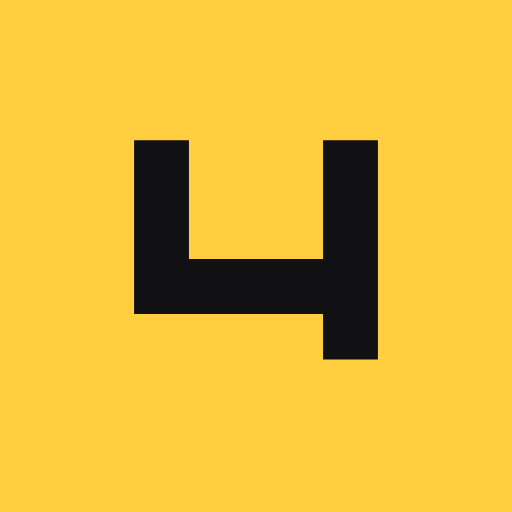
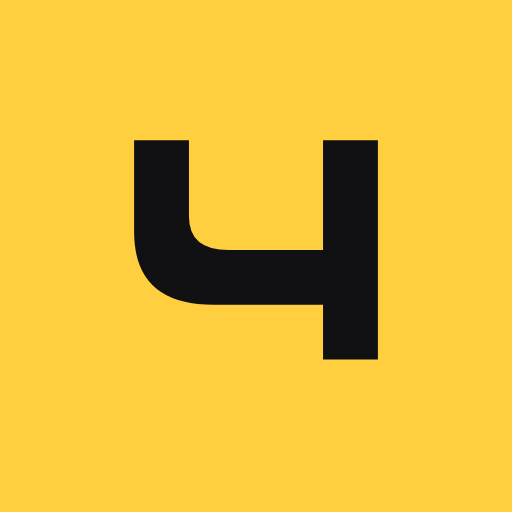
Ч: rounded bowl so it reads as Ч and not as 4 (#188)
The left arm now bends into the crossbar with a rounded outer corner (same family as the bowl of Б),
instead of a square corner. Applied to the mark, launch screen, icons and docs/BRAND.md.

Claude-Session: https://claude.ai/code/session_01Tt2ADcfsnEDgjtUcpVaaSx

Changed region(s): [[0.25, 0.4688, 0.6562, 0.625], [0.3438, 0.4375, 0.625, 0.5312]]

diff --git a/web/src/shared/components/AppLogo.vue b/web/src/shared/components/AppLogo.vue
@@ -3,7 +3,7 @@
     <rect class="lg-fill" :style="scrub?.fill" x="0" y="0" width="84" height="84" rx="22" />
     <rect class="lg-frame" :style="scrub?.frame" x="1.25" y="1.25" width="81.5" height="81.5" rx="21" fill="none" stroke-width="2.5" pathLength="100" />
     <!-- Mark and word share one cap height (36) and the same top and bottom lines, as in the T-Bank logo. -->
-    <path class="lg-ch" :style="scrub?.ch" transform="translate(22 23)" d="M0 0H9V19.5H31V0H40V36H31V28.5H0Z" />
+    <path class="lg-ch" :style="scrub?.ch" transform="translate(22 23)" d="M0 0H9V12.5Q9 18 15.5 18H31V0H40V36H31V27H13Q0 27 0 15Z" />
     <!-- The square holds the first letter of the name, so the word only spells БАНК. Drawn with paths, not a font. -->
     <g v-if="lockup" class="lg-word" transform="translate(105 23)" fill="currentColor">
       <path fill-rule="evenodd" d="M0 0H40V9H9V13.5H24Q40 13.5 40 24.75Q40 36 24 36H0Z M9 22.5V27H24Q31 27 31 24.75Q31 22.5 24 22.5Z" /><path fill-rule="evenodd" transform="translate(41.5 0)" d="M0 36L17.5 0H28.5L46 36H35L32.6 31H13.4L11 36Z M17.3 23H28.7L23 11.3Z" /><path transform="translate(90.7 0)" d="M0 0H9V14.5H31V0H40V36H31V23.5H9V36H0Z" /><path transform="translate(137.1 0)" d="M0 0H9V15.2L30.5 0H42.5L21.2 17.6L43 36H30.8L14.6 22.6L9 27.3V36H0Z" />

diff --git a/web/index.html b/web/index.html
@@ -88,7 +88,7 @@
           <svg class="boot-lockup" viewBox="0 0 285 84" role="img" aria-label="Ч-Банк" focusable="false" xmlns="http://www.w3.org/2000/svg">
             <rect class="l-fill" x="0" y="0" width="84" height="84" rx="22" />
             <rect class="l-frame" x="1.25" y="1.25" width="81.5" height="81.5" rx="21" fill="none" stroke-width="2.5" pathLength="100" />
-            <path class="l-ch" transform="translate(22 23)" d="M0 0H9V19.5H31V0H40V36H31V28.5H0Z" />
+            <path class="l-ch" transform="translate(22 23)" d="M0 0H9V12.5Q9 18 15.5 18H31V0H40V36H31V27H13Q0 27 0 15Z" />
             <g class="l-word" transform="translate(105 23)" fill="currentColor"><path fill-rule="evenodd" d="M0 0H40V9H9V13.5H24Q40 13.5 40 24.75Q40 36 24 36H0Z M9 22.5V27H24Q31 27 31 24.75Q31 22.5 24 22.5Z" /><path fill-rule="evenodd" transform="translate(41.5 0)" d="M0 36L17.5 0H28.5L46 36H35L32.6 31H13.4L11 36Z M17.3 23H28.7L23 11.3Z" /><path transform="translate(90.7 0)" d="M0 0H9V14.5H31V0H40V36H31V23.5H9V36H0Z" /><path transform="translate(137.1 0)" d="M0 0H9V15.2L30.5 0H42.5L21.2 17.6L43 36H30.8L14.6 22.6L9 27.3V36H0Z" /></g>
           </svg>
           <div class="boot-bar" aria-hidden="true"></div>

diff --git a/docs/BRAND.md b/docs/BRAND.md
@@ -20,7 +20,7 @@ of the cap height), spacing is tight (0–2 units of 12). In our units (cap heig
 | Gap square → word | 21 |
 | Letter gaps | Б→А 1.5 · А→Н 3.2 · Н→К 6.4 |
 
-Glyphs (filled outlines, no font): Ч `M0 0H9V19.5H31V0H40V36H31V28.5H0Z`; Б `M0 0H40V9H9V13.5H24Q40 13.5 40 24.75Q40 36 24 36H0Z M9 22.5V27H24Q31 27 31 24.75Q31 22.5 24 22.5Z` (even-odd); А `M0 36L17.5 0H28.5L46 36H35L32.6 31H13.4L11 36Z M17.3 23H28.7L23 11.3Z` (even-odd); Н `M0 0H9V14.5H31V0H40V36H31V23.5H9V36H0Z`; К `M0 0H9V15.2L30.5 0H42.5L21.2 17.6L43 36H30.8L14.6 22.6L9 27.3V36H0Z`.
+Glyphs (filled outlines, no font): Ч `M0 0H9V12.5Q9 18 15.5 18H31V0H40V36H31V27H13Q0 27 0 15Z`; Б `M0 0H40V9H9V13.5H24Q40 13.5 40 24.75Q40 36 24 36H0Z M9 22.5V27H24Q31 27 31 24.75Q31 22.5 24 22.5Z` (even-odd); А `M0 36L17.5 0H28.5L46 36H35L32.6 31H13.4L11 36Z M17.3 23H28.7L23 11.3Z` (even-odd); Н `M0 0H9V14.5H31V0H40V36H31V23.5H9V36H0Z`; К `M0 0H9V15.2L30.5 0H42.5L21.2 17.6L43 36H30.8L14.6 22.6L9 27.3V36H0Z`.
 The Ч is a letter of the same family as БАНК and has exactly the same cap height and stem, so it cannot look smaller.
 
 - Letters are drawn with paths, not a font, so the logo looks the same on every device.
